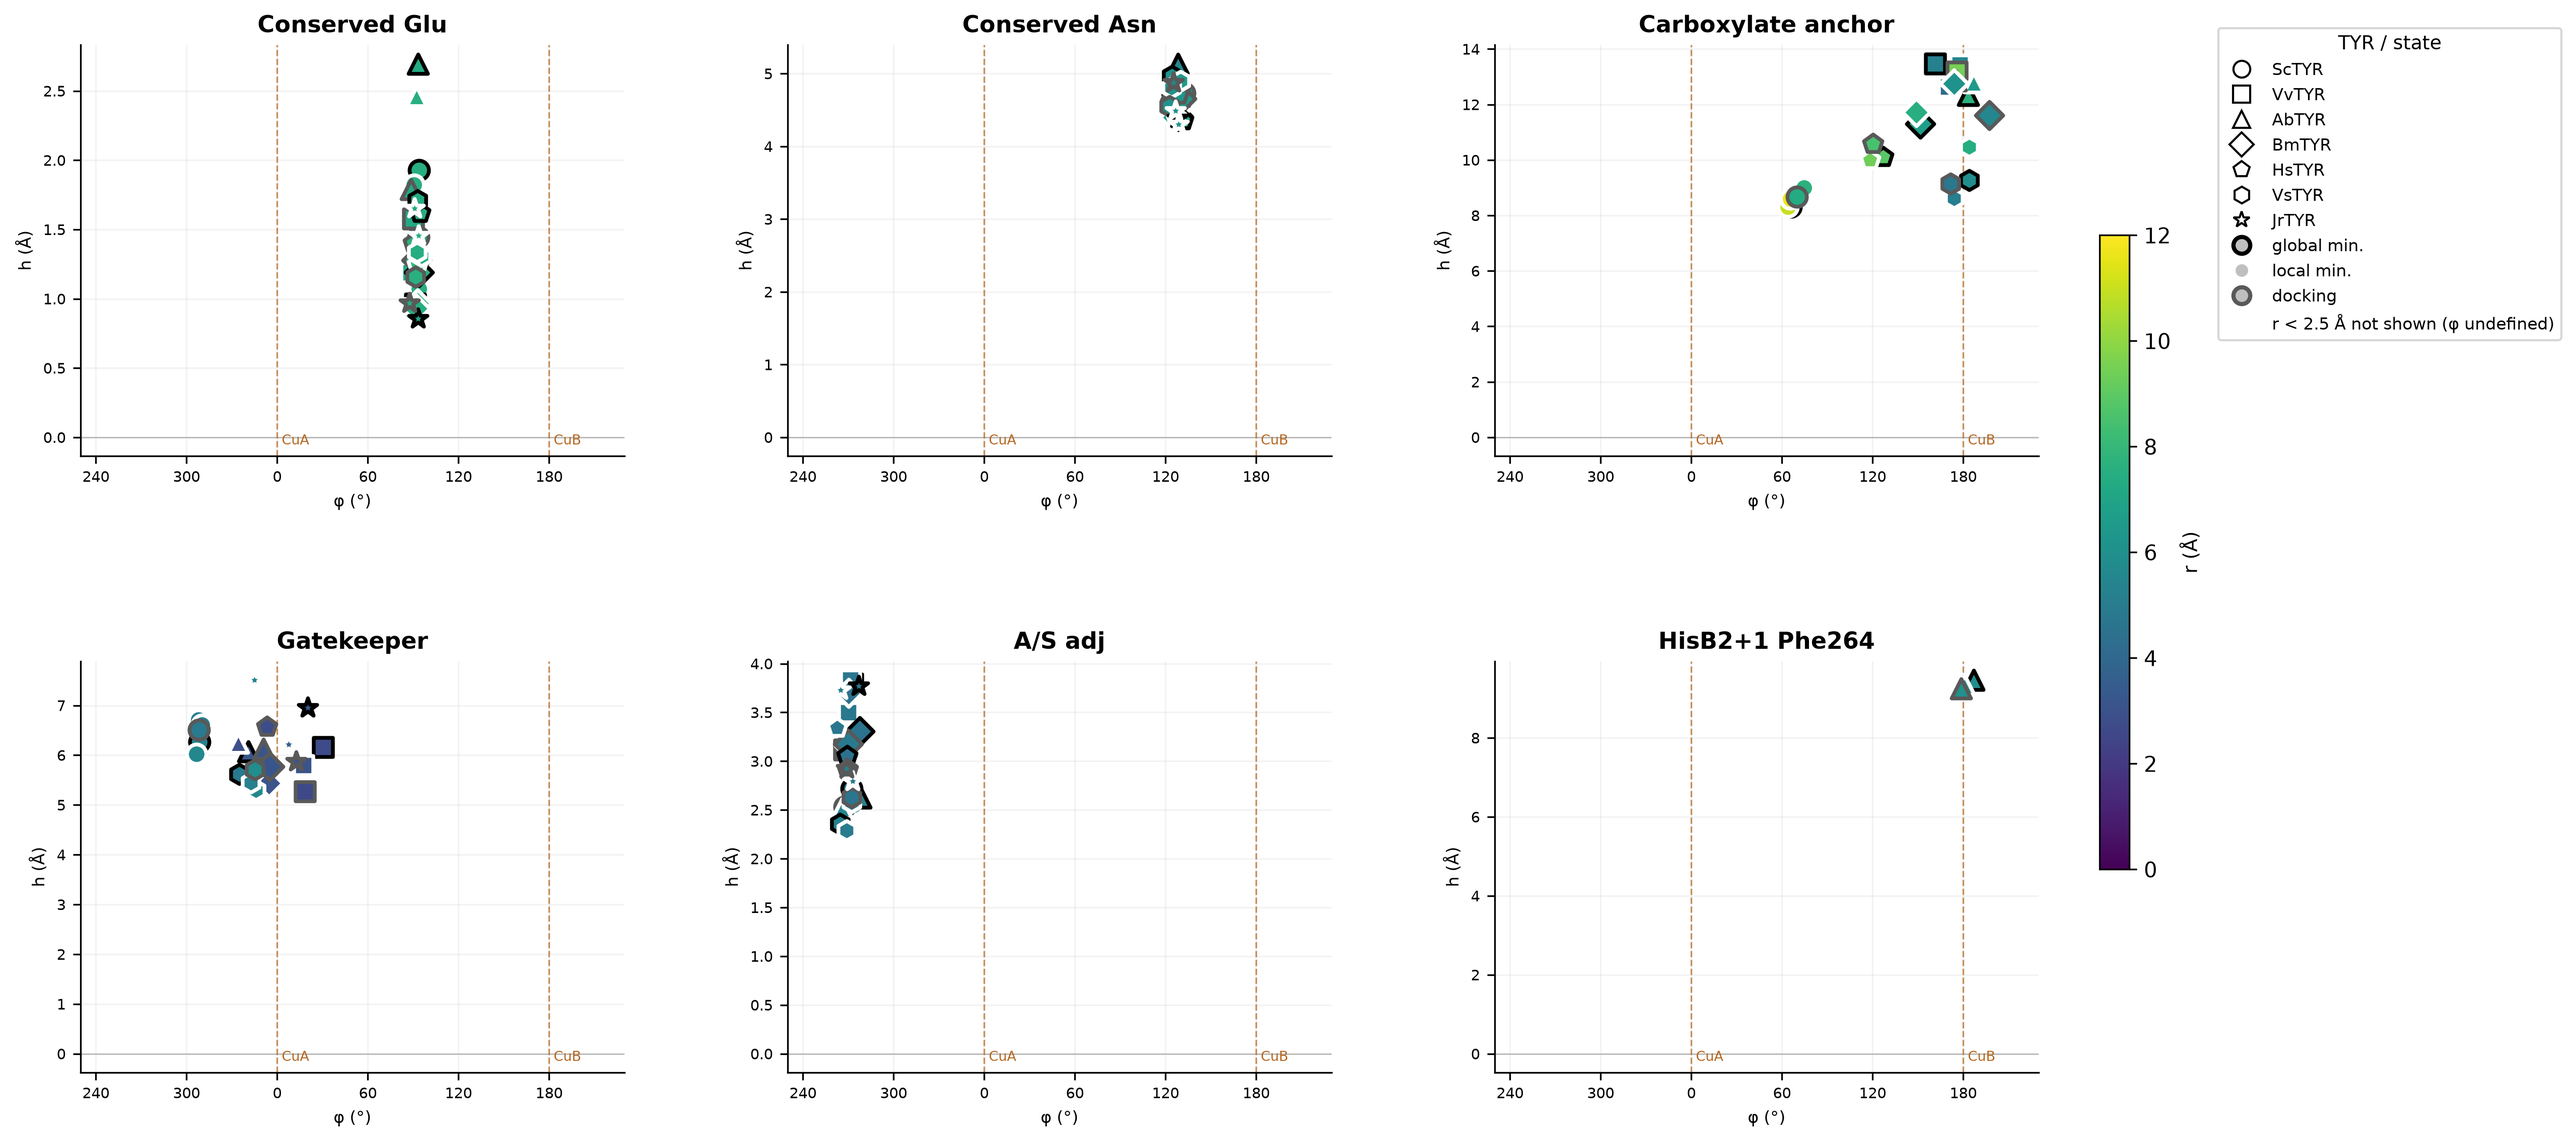
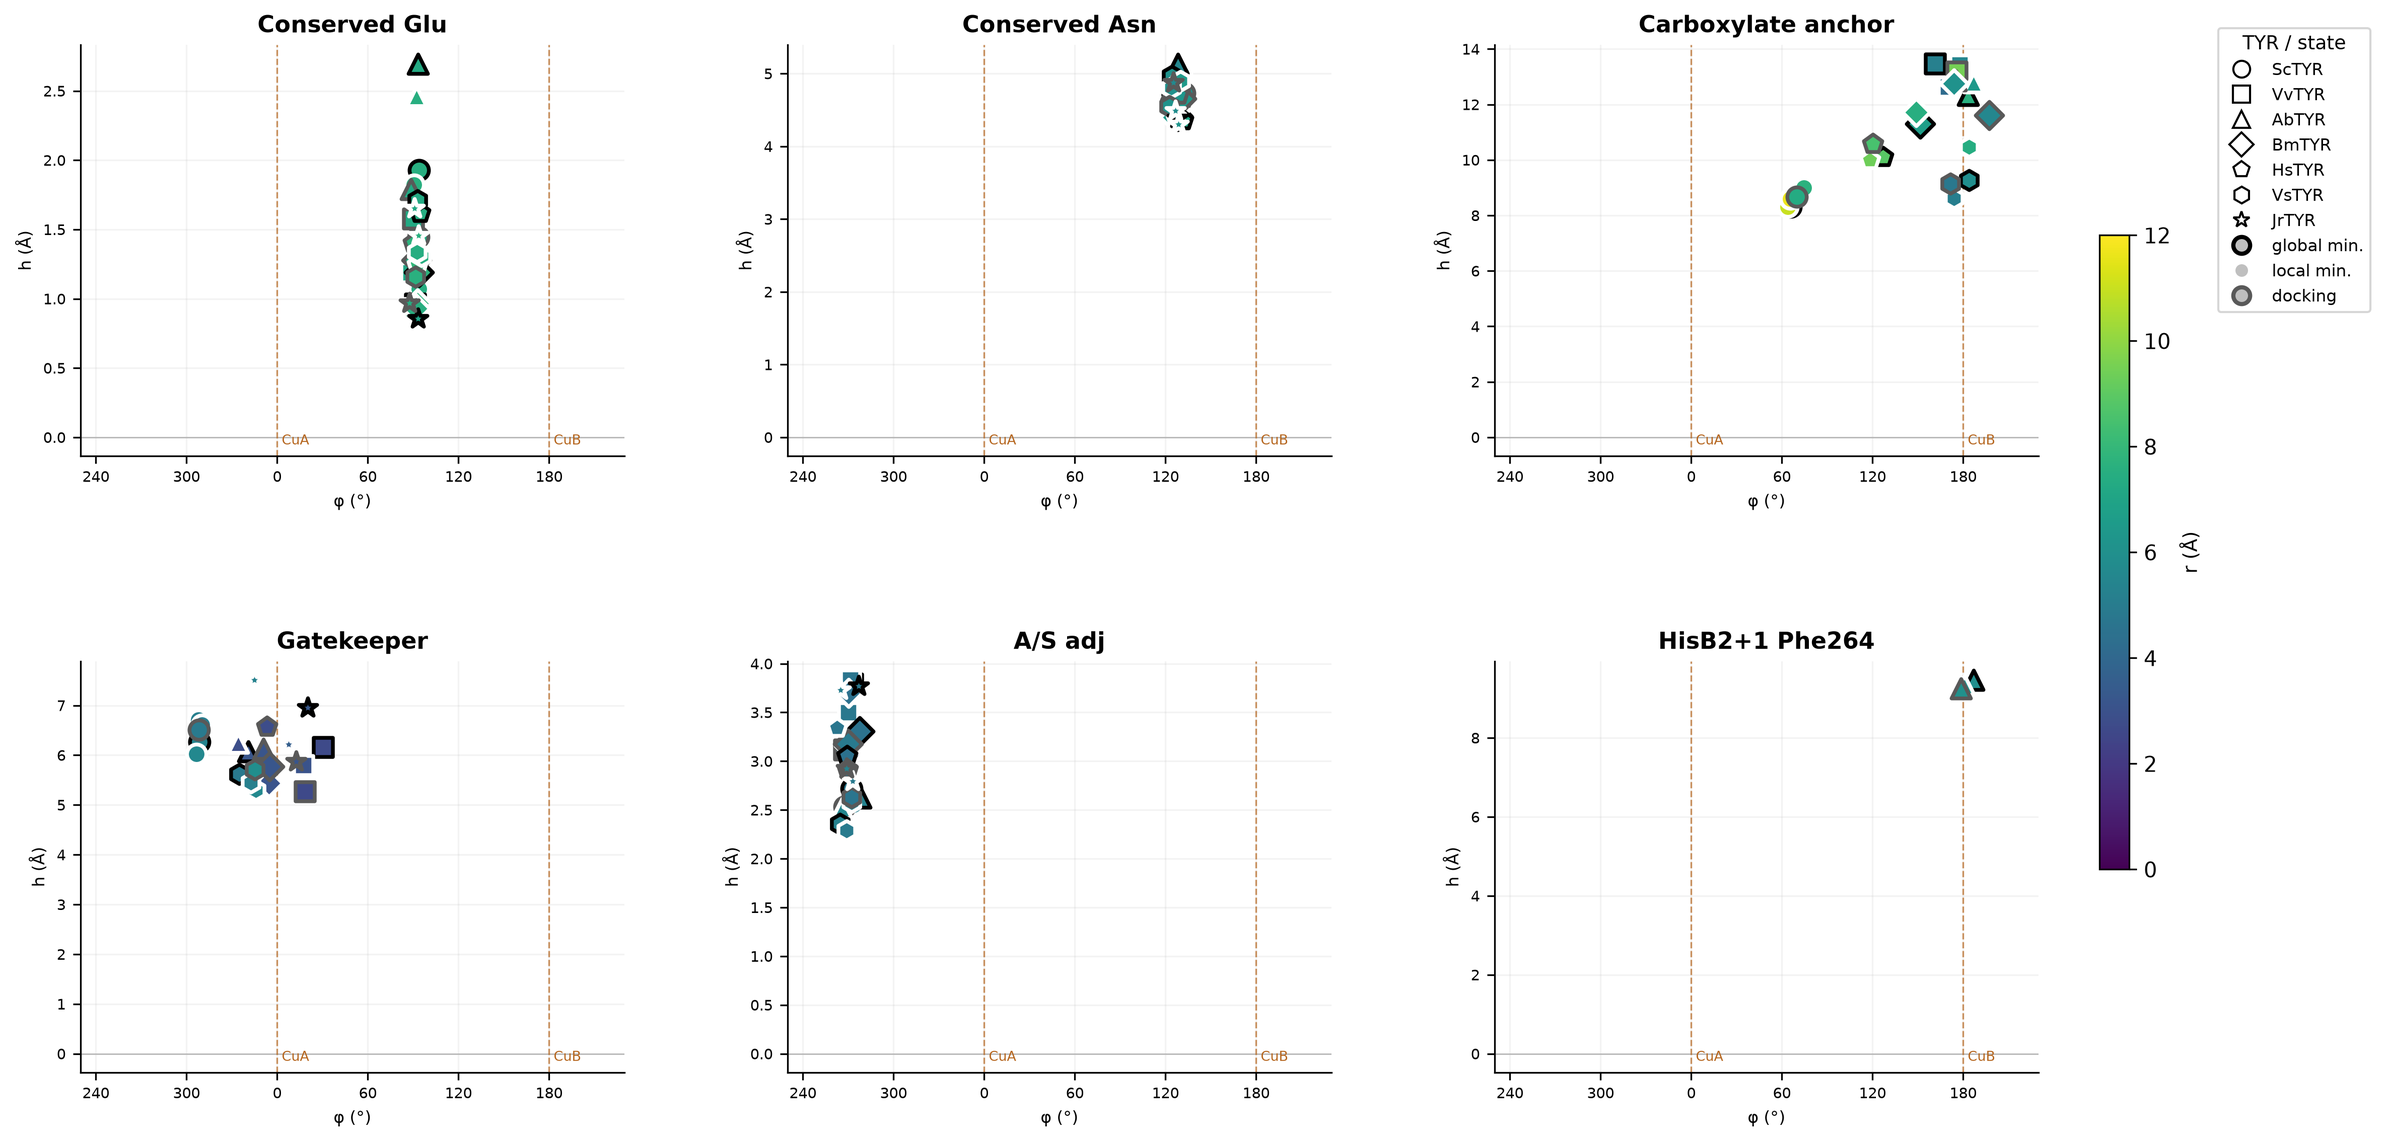
fig_bugs

diff --git a/solaris.py b/solaris.py
@@ -1162,18 +1162,14 @@ def fig_unrolled_cylinder(long_df, landmark_order, path, dpi, r_min, traj=False,
     fig.subplots_adjust(left=0.06, right=0.86, bottom=0.09, top=0.9, wspace=0.3, hspace=0.5)
     cb = fig.colorbar(ScalarMappable(norm=norm, cmap="viridis"), cax=fig.add_axes([0.885, 0.25, 0.012, 0.5]))
     cb.set_label("r (Å)", fontsize=9)
-    has_low = (dd["r"] < r_min).any()
     if traj:
         step = frame_step(d[d["landmark"].isin(panels)], n_points)
         extra = [Line2D([0], [0], marker="o", ls="None", ms=4, mfc="#7f7f7f", mec="none", alpha=0.7,
                         label=f"GaMD frame (1 every {step})" if step > 1 else "GaMD frame")]
-        if has_low:
-            extra.append(Line2D([], [], ls="None", label=f"r < {r_min:g} Å not shown (φ undefined)"))
         family_legend(fig, systems, set(), extra)
         fig.suptitle("Unrolled cylinder · GaMD", fontsize=11, fontweight="bold", y=0.98)
     else:
-        extra = [Line2D([], [], ls="None", label=f"r < {r_min:g} Å not shown (φ undefined)")] if has_low else []
-        family_legend(fig, systems, set(d["category"]), extra)
+        family_legend(fig, systems, set(d["category"]))
     fig.savefig(path, dpi=dpi, bbox_inches="tight")
     plt.close(fig)
     return seam
